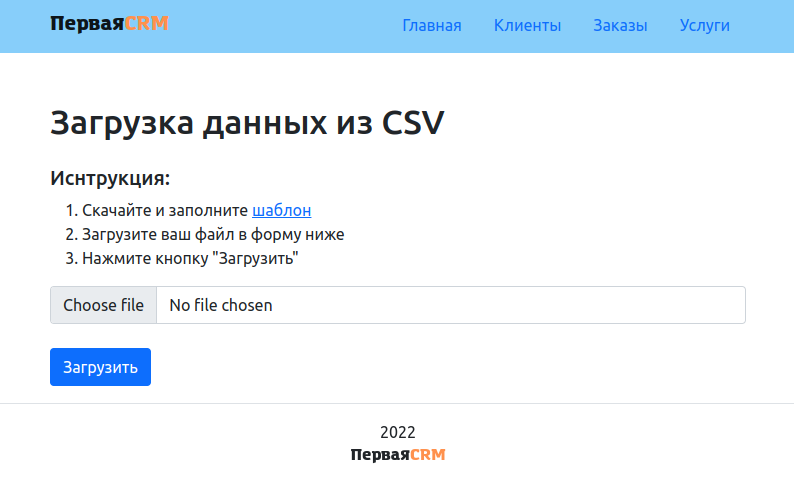
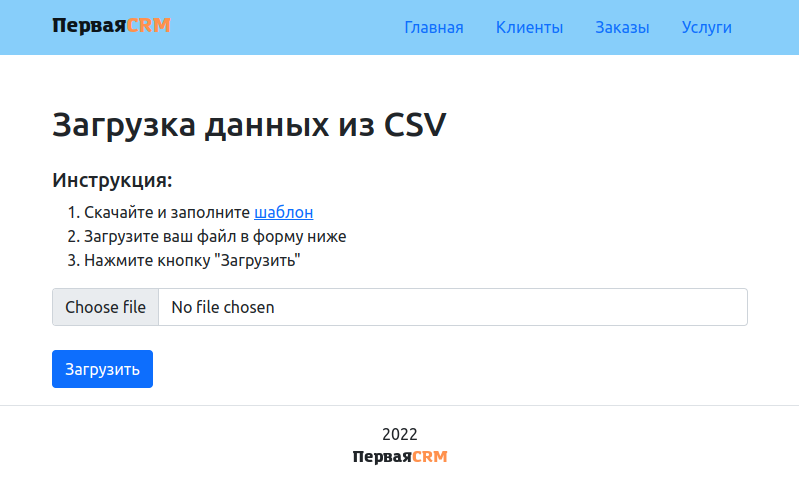
update screenshot

diff --git a/first_crm/templates/products/upload.html b/first_crm/templates/products/upload.html
@@ -7,7 +7,7 @@
 <div class="container py-5">
     <div class="col">
         <h1 class="mb-4">Загрузка данных из CSV</h1>
-        <h5>Иснтрукция:</h5>
+        <h5>Инструкция:</h5>
         <ol>
             <li>Скачайте и заполните <a href="{% static 'data/products.csv' %}" role="button">шаблон</a></li>
             <li>Загрузите ваш файл в форму ниже</li>
